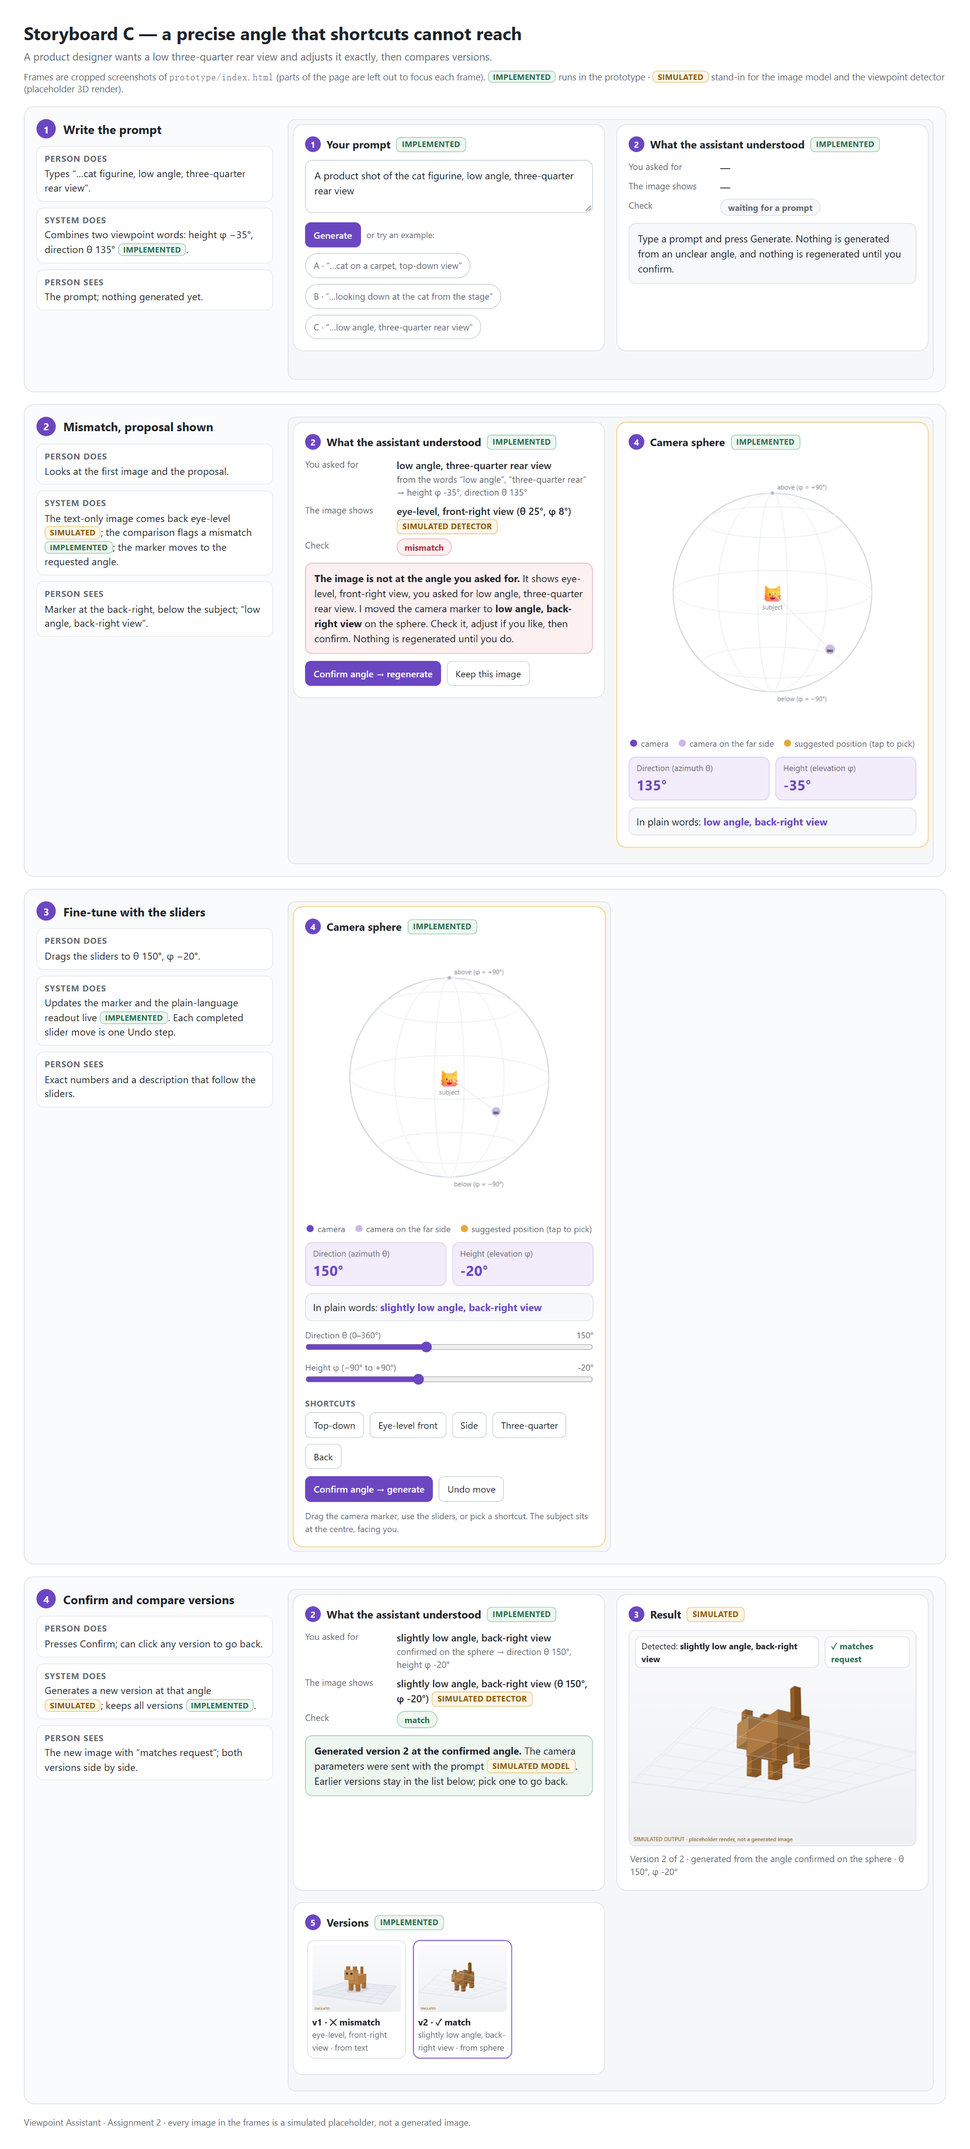
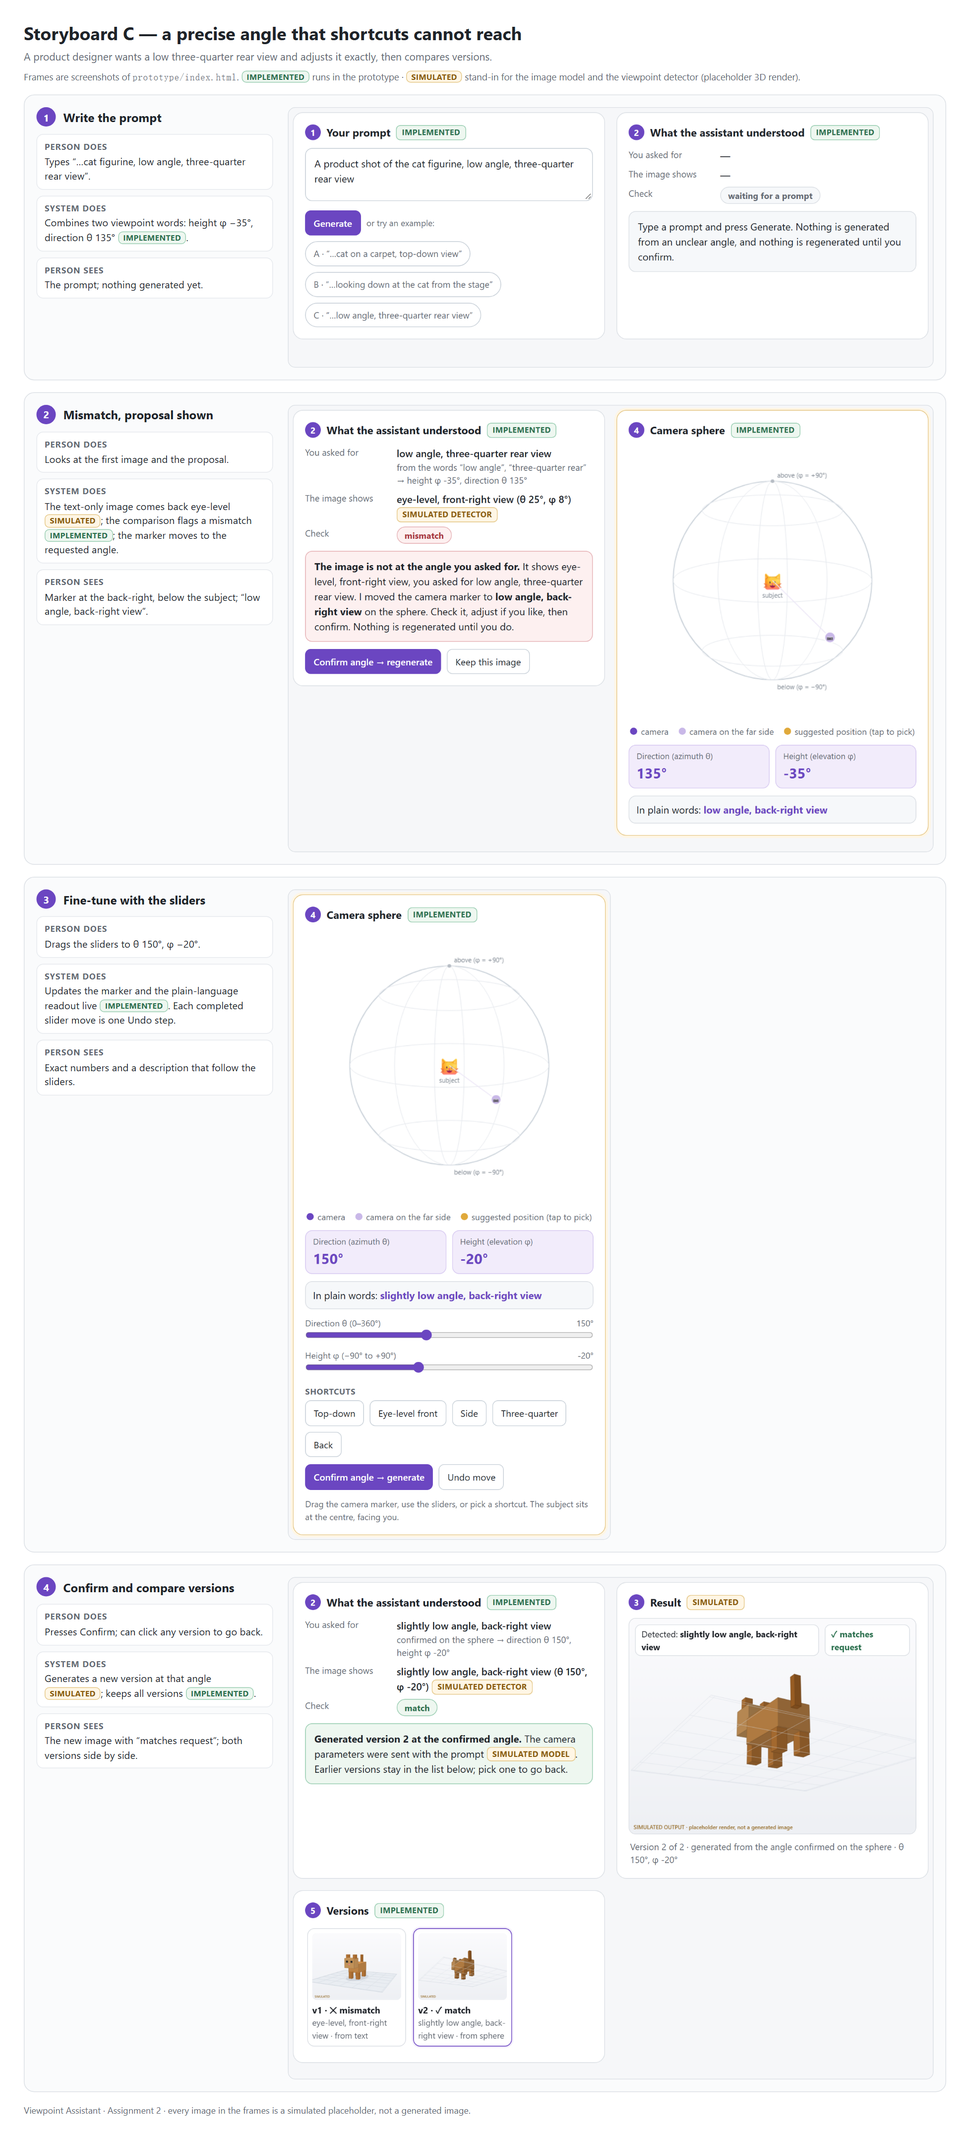
Storyboard caption: say "screenshots"
The cropping is stated in the README development record instead of the
figure caption.

diff --git a/docs/a2/storyboard_A_corrected.html b/docs/a2/storyboard_A_corrected.html
@@ -14,4 +14,4 @@ h1{font-size:24px} .sub{color:#646a73;font-size:14px;margin:6px 0 10px}
 .shot{display:flex;align-items:flex-start}
 .shot img{width:100%;border:1px solid #dde1e6;border-radius:10px;background:#f6f7f9}
 .foot{font-size:12px;color:#646a73;margin-top:4px}
-</style></head><body><h1>Storyboard A — a clear request that comes back at the wrong angle</h1><p class="sub">Person wants a top-down photo of a cat. The assistant checks the angle, flags the mismatch and lets the person confirm the fix.</p><p class="legend">Frames are cropped screenshots of <code>prototype/index.html</code> (parts of the page are left out to focus each frame). <span class="tag impl">implemented</span> runs in the prototype · <span class="tag sim">simulated</span> stand-in for the image model and the viewpoint detector (placeholder 3D render).</p><div class="frame"><div class="txt"><div class="n"><i>1</i>Write the prompt</div><div class="row"><b>Person does</b>Types “…cat on a carpet, top-down view” and presses Generate.</div><div class="row"><b>System does</b>Reads the viewpoint word “top-down” as height φ 90° <span class="tag impl">implemented</span>.</div><div class="row"><b>Person sees</b>The prompt, and a note that nothing has been generated yet.</div></div><div class="shot"><img src="screens/A1_prompt.png" alt="Write the prompt"></div></div><div class="frame"><div class="txt"><div class="n"><i>2</i>The wrong angle is flagged</div><div class="row"><b>Person does</b>Looks at the first image.</div><div class="row"><b>System does</b>Generates from the text alone <span class="tag sim">simulated</span>, detects the angle <span class="tag sim">simulated</span>, compares it with the request <span class="tag impl">implemented</span>: mismatch.</div><div class="row"><b>Person sees</b>“Detected: eye-level, front-right view”, “not the angle asked for”, and why.</div></div><div class="shot"><img src="screens/A2_mismatch.png" alt="The wrong angle is flagged"></div></div><div class="frame"><div class="txt"><div class="n"><i>3</i>Fix proposed, nothing changed yet</div><div class="row"><b>Person does</b>Checks the proposed angle; can drag, use the sliders or a shortcut.</div><div class="row"><b>System does</b>Moves the camera marker to top-down on the sphere <span class="tag impl">implemented</span>. Waits. No regeneration without confirmation.</div><div class="row"><b>Person sees</b>Marker at the top and the readout “top-down view”.</div></div><div class="shot"><img src="screens/A3_marker_moved.png" alt="Fix proposed, nothing changed yet"></div></div><div class="frame"><div class="txt"><div class="n"><i>4</i>Confirm, new version</div><div class="row"><b>Person does</b>Presses “Confirm angle → regenerate”.</div><div class="row"><b>System does</b>Sends the confirmed angle to the model <span class="tag sim">simulated</span>, checks again, keeps both versions <span class="tag impl">implemented</span>.</div><div class="row"><b>Person sees</b>Top-down image, “matches request”; the earlier image stays in the version list.</div></div><div class="shot"><img src="screens/A4_regenerated.png" alt="Confirm, new version"></div></div><p class="foot">Viewpoint Assistant · Assignment 2 · every image in the frames is a simulated placeholder, not a generated image.</p></body></html>
+</style></head><body><h1>Storyboard A — a clear request that comes back at the wrong angle</h1><p class="sub">Person wants a top-down photo of a cat. The assistant checks the angle, flags the mismatch and lets the person confirm the fix.</p><p class="legend">Frames are screenshots of <code>prototype/index.html</code>. <span class="tag impl">implemented</span> runs in the prototype · <span class="tag sim">simulated</span> stand-in for the image model and the viewpoint detector (placeholder 3D render).</p><div class="frame"><div class="txt"><div class="n"><i>1</i>Write the prompt</div><div class="row"><b>Person does</b>Types “…cat on a carpet, top-down view” and presses Generate.</div><div class="row"><b>System does</b>Reads the viewpoint word “top-down” as height φ 90° <span class="tag impl">implemented</span>.</div><div class="row"><b>Person sees</b>The prompt, and a note that nothing has been generated yet.</div></div><div class="shot"><img src="screens/A1_prompt.png" alt="Write the prompt"></div></div><div class="frame"><div class="txt"><div class="n"><i>2</i>The wrong angle is flagged</div><div class="row"><b>Person does</b>Looks at the first image.</div><div class="row"><b>System does</b>Generates from the text alone <span class="tag sim">simulated</span>, detects the angle <span class="tag sim">simulated</span>, compares it with the request <span class="tag impl">implemented</span>: mismatch.</div><div class="row"><b>Person sees</b>“Detected: eye-level, front-right view”, “not the angle asked for”, and why.</div></div><div class="shot"><img src="screens/A2_mismatch.png" alt="The wrong angle is flagged"></div></div><div class="frame"><div class="txt"><div class="n"><i>3</i>Fix proposed, nothing changed yet</div><div class="row"><b>Person does</b>Checks the proposed angle; can drag, use the sliders or a shortcut.</div><div class="row"><b>System does</b>Moves the camera marker to top-down on the sphere <span class="tag impl">implemented</span>. Waits. No regeneration without confirmation.</div><div class="row"><b>Person sees</b>Marker at the top and the readout “top-down view”.</div></div><div class="shot"><img src="screens/A3_marker_moved.png" alt="Fix proposed, nothing changed yet"></div></div><div class="frame"><div class="txt"><div class="n"><i>4</i>Confirm, new version</div><div class="row"><b>Person does</b>Presses “Confirm angle → regenerate”.</div><div class="row"><b>System does</b>Sends the confirmed angle to the model <span class="tag sim">simulated</span>, checks again, keeps both versions <span class="tag impl">implemented</span>.</div><div class="row"><b>Person sees</b>Top-down image, “matches request”; the earlier image stays in the version list.</div></div><div class="shot"><img src="screens/A4_regenerated.png" alt="Confirm, new version"></div></div><p class="foot">Viewpoint Assistant · Assignment 2 · every image in the frames is a simulated placeholder, not a generated image.</p></body></html>

diff --git a/docs/a2/storyboard_C_precise.html b/docs/a2/storyboard_C_precise.html
@@ -14,4 +14,4 @@ h1{font-size:24px} .sub{color:#646a73;font-size:14px;margin:6px 0 10px}
 .shot{display:flex;align-items:flex-start}
 .shot img{width:100%;border:1px solid #dde1e6;border-radius:10px;background:#f6f7f9}
 .foot{font-size:12px;color:#646a73;margin-top:4px}
-</style></head><body><h1>Storyboard C — a precise angle that shortcuts cannot reach</h1><p class="sub">A product designer wants a low three-quarter rear view and adjusts it exactly, then compares versions.</p><p class="legend">Frames are cropped screenshots of <code>prototype/index.html</code> (parts of the page are left out to focus each frame). <span class="tag impl">implemented</span> runs in the prototype · <span class="tag sim">simulated</span> stand-in for the image model and the viewpoint detector (placeholder 3D render).</p><div class="frame"><div class="txt"><div class="n"><i>1</i>Write the prompt</div><div class="row"><b>Person does</b>Types “…cat figurine, low angle, three-quarter rear view”.</div><div class="row"><b>System does</b>Combines two viewpoint words: height φ −35°, direction θ 135° <span class="tag impl">implemented</span>.</div><div class="row"><b>Person sees</b>The prompt; nothing generated yet.</div></div><div class="shot"><img src="screens/C1_prompt.png" alt="Write the prompt"></div></div><div class="frame"><div class="txt"><div class="n"><i>2</i>Mismatch, proposal shown</div><div class="row"><b>Person does</b>Looks at the first image and the proposal.</div><div class="row"><b>System does</b>The text-only image comes back eye-level <span class="tag sim">simulated</span>; the comparison flags a mismatch <span class="tag impl">implemented</span>; the marker moves to the requested angle.</div><div class="row"><b>Person sees</b>Marker at the back-right, below the subject; “low angle, back-right view”.</div></div><div class="shot"><img src="screens/C2_proposal.png" alt="Mismatch, proposal shown"></div></div><div class="frame"><div class="txt"><div class="n"><i>3</i>Fine-tune with the sliders</div><div class="row"><b>Person does</b>Drags the sliders to θ 150°, φ −20°.</div><div class="row"><b>System does</b>Updates the marker and the plain-language readout live <span class="tag impl">implemented</span>. Each completed slider move is one Undo step.</div><div class="row"><b>Person sees</b>Exact numbers and a description that follow the sliders.</div></div><div class="shot"><img src="screens/C3_finetuned.png" alt="Fine-tune with the sliders" style='width:50%'></div></div><div class="frame"><div class="txt"><div class="n"><i>4</i>Confirm and compare versions</div><div class="row"><b>Person does</b>Presses Confirm; can click any version to go back.</div><div class="row"><b>System does</b>Generates a new version at that angle <span class="tag sim">simulated</span>; keeps all versions <span class="tag impl">implemented</span>.</div><div class="row"><b>Person sees</b>The new image with “matches request”; both versions side by side.</div></div><div class="shot"><img src="screens/C4_compared.png" alt="Confirm and compare versions"></div></div><p class="foot">Viewpoint Assistant · Assignment 2 · every image in the frames is a simulated placeholder, not a generated image.</p></body></html>
+</style></head><body><h1>Storyboard C — a precise angle that shortcuts cannot reach</h1><p class="sub">A product designer wants a low three-quarter rear view and adjusts it exactly, then compares versions.</p><p class="legend">Frames are screenshots of <code>prototype/index.html</code>. <span class="tag impl">implemented</span> runs in the prototype · <span class="tag sim">simulated</span> stand-in for the image model and the viewpoint detector (placeholder 3D render).</p><div class="frame"><div class="txt"><div class="n"><i>1</i>Write the prompt</div><div class="row"><b>Person does</b>Types “…cat figurine, low angle, three-quarter rear view”.</div><div class="row"><b>System does</b>Combines two viewpoint words: height φ −35°, direction θ 135° <span class="tag impl">implemented</span>.</div><div class="row"><b>Person sees</b>The prompt; nothing generated yet.</div></div><div class="shot"><img src="screens/C1_prompt.png" alt="Write the prompt"></div></div><div class="frame"><div class="txt"><div class="n"><i>2</i>Mismatch, proposal shown</div><div class="row"><b>Person does</b>Looks at the first image and the proposal.</div><div class="row"><b>System does</b>The text-only image comes back eye-level <span class="tag sim">simulated</span>; the comparison flags a mismatch <span class="tag impl">implemented</span>; the marker moves to the requested angle.</div><div class="row"><b>Person sees</b>Marker at the back-right, below the subject; “low angle, back-right view”.</div></div><div class="shot"><img src="screens/C2_proposal.png" alt="Mismatch, proposal shown"></div></div><div class="frame"><div class="txt"><div class="n"><i>3</i>Fine-tune with the sliders</div><div class="row"><b>Person does</b>Drags the sliders to θ 150°, φ −20°.</div><div class="row"><b>System does</b>Updates the marker and the plain-language readout live <span class="tag impl">implemented</span>. Each completed slider move is one Undo step.</div><div class="row"><b>Person sees</b>Exact numbers and a description that follow the sliders.</div></div><div class="shot"><img src="screens/C3_finetuned.png" alt="Fine-tune with the sliders" style='width:50%'></div></div><div class="frame"><div class="txt"><div class="n"><i>4</i>Confirm and compare versions</div><div class="row"><b>Person does</b>Presses Confirm; can click any version to go back.</div><div class="row"><b>System does</b>Generates a new version at that angle <span class="tag sim">simulated</span>; keeps all versions <span class="tag impl">implemented</span>.</div><div class="row"><b>Person sees</b>The new image with “matches request”; both versions side by side.</div></div><div class="shot"><img src="screens/C4_compared.png" alt="Confirm and compare versions"></div></div><p class="foot">Viewpoint Assistant · Assignment 2 · every image in the frames is a simulated placeholder, not a generated image.</p></body></html>

diff --git a/docs/a2/storyboard_B_asked.html b/docs/a2/storyboard_B_asked.html
@@ -14,4 +14,4 @@ h1{font-size:24px} .sub{color:#646a73;font-size:14px;margin:6px 0 10px}
 .shot{display:flex;align-items:flex-start}
 .shot img{width:100%;border:1px solid #dde1e6;border-radius:10px;background:#f6f7f9}
 .foot{font-size:12px;color:#646a73;margin-top:4px}
-</style></head><body><h1>Storyboard B — a metaphor: ask instead of guessing</h1><p class="sub">Person describes the angle as a scene (“looking down from the stage”). The assistant does not turn it into a literal angle.</p><p class="legend">Frames are cropped screenshots of <code>prototype/index.html</code> (parts of the page are left out to focus each frame). <span class="tag impl">implemented</span> runs in the prototype · <span class="tag sim">simulated</span> stand-in for the image model and the viewpoint detector (placeholder 3D render).</p><div class="frame"><div class="txt"><div class="n"><i>1</i>Write the prompt</div><div class="row"><b>Person does</b>Types “Make it look like you’re looking down at the cat from the stage”.</div><div class="row"><b>System does</b>Looks for viewpoint words <span class="tag impl">implemented</span>.</div><div class="row"><b>Person sees</b>The prompt; nothing generated yet.</div></div><div class="shot"><img src="screens/B1_prompt.png" alt="Write the prompt"></div></div><div class="frame"><div class="txt"><div class="n"><i>2</i>The assistant asks</div><div class="row"><b>Person does</b>Reads the message.</div><div class="row"><b>System does</b>Finds “looking down” but no exact angle: unclear <span class="tag impl">implemented</span>. Generates nothing. Shows 3 suggested positions on the sphere.</div><div class="row"><b>Person sees</b>“I have not generated anything”, “nothing yet”, and three amber suggestions.</div></div><div class="shot"><img src="screens/B2_ambiguous.png" alt="The assistant asks"></div></div><div class="frame"><div class="txt"><div class="n"><i>3</i>Point at the angle</div><div class="row"><b>Person does</b>Taps suggestion 1 (or drags the marker).</div><div class="row"><b>System does</b>Moves the camera to that position and shows it in numbers and plain words <span class="tag impl">implemented</span>.</div><div class="row"><b>Person sees</b>θ 0°, φ 55°, “high angle, front view”.</div></div><div class="shot"><img src="screens/B3_picked.png" alt="Point at the angle"></div></div><div class="frame"><div class="txt"><div class="n"><i>4</i>Confirm, image generated</div><div class="row"><b>Person does</b>Presses “Confirm angle → generate”.</div><div class="row"><b>System does</b>Sends the confirmed angle to the model <span class="tag sim">simulated</span>; keeps the version <span class="tag impl">implemented</span>.</div><div class="row"><b>Person sees</b>An image at that angle, “matches request”, listed as version 1.</div></div><div class="shot"><img src="screens/B4_generated.png" alt="Confirm, image generated"></div></div><p class="foot">Viewpoint Assistant · Assignment 2 · every image in the frames is a simulated placeholder, not a generated image.</p></body></html>
+</style></head><body><h1>Storyboard B — a metaphor: ask instead of guessing</h1><p class="sub">Person describes the angle as a scene (“looking down from the stage”). The assistant does not turn it into a literal angle.</p><p class="legend">Frames are screenshots of <code>prototype/index.html</code>. <span class="tag impl">implemented</span> runs in the prototype · <span class="tag sim">simulated</span> stand-in for the image model and the viewpoint detector (placeholder 3D render).</p><div class="frame"><div class="txt"><div class="n"><i>1</i>Write the prompt</div><div class="row"><b>Person does</b>Types “Make it look like you’re looking down at the cat from the stage”.</div><div class="row"><b>System does</b>Looks for viewpoint words <span class="tag impl">implemented</span>.</div><div class="row"><b>Person sees</b>The prompt; nothing generated yet.</div></div><div class="shot"><img src="screens/B1_prompt.png" alt="Write the prompt"></div></div><div class="frame"><div class="txt"><div class="n"><i>2</i>The assistant asks</div><div class="row"><b>Person does</b>Reads the message.</div><div class="row"><b>System does</b>Finds “looking down” but no exact angle: unclear <span class="tag impl">implemented</span>. Generates nothing. Shows 3 suggested positions on the sphere.</div><div class="row"><b>Person sees</b>“I have not generated anything”, “nothing yet”, and three amber suggestions.</div></div><div class="shot"><img src="screens/B2_ambiguous.png" alt="The assistant asks"></div></div><div class="frame"><div class="txt"><div class="n"><i>3</i>Point at the angle</div><div class="row"><b>Person does</b>Taps suggestion 1 (or drags the marker).</div><div class="row"><b>System does</b>Moves the camera to that position and shows it in numbers and plain words <span class="tag impl">implemented</span>.</div><div class="row"><b>Person sees</b>θ 0°, φ 55°, “high angle, front view”.</div></div><div class="shot"><img src="screens/B3_picked.png" alt="Point at the angle"></div></div><div class="frame"><div class="txt"><div class="n"><i>4</i>Confirm, image generated</div><div class="row"><b>Person does</b>Presses “Confirm angle → generate”.</div><div class="row"><b>System does</b>Sends the confirmed angle to the model <span class="tag sim">simulated</span>; keeps the version <span class="tag impl">implemented</span>.</div><div class="row"><b>Person sees</b>An image at that angle, “matches request”, listed as version 1.</div></div><div class="shot"><img src="screens/B4_generated.png" alt="Confirm, image generated"></div></div><p class="foot">Viewpoint Assistant · Assignment 2 · every image in the frames is a simulated placeholder, not a generated image.</p></body></html>

diff --git a/README.md b/README.md
@@ -61,7 +61,7 @@ Work before 13 November 2026 was done outside Git and was imported in the first 
   - *Prompt reading and comparison made real* ([98f81b9](https://github.com/ShiSongLin6/viewpoint-assistant/commit/98f81b9)). In Lab 3 these steps were mocked. Rules were chosen over a language model so the behaviour is transparent, testable and runs without an API key. Unclear or conflicting phrases return suggestions, never an angle. Checked with unit tests (17 at the latest commit), including Lab 3 Tests A and B and a whole-word check ("triangle" is not "angle").
   - *Full interaction loop* ([05ebff9](https://github.com/ShiSongLin6/viewpoint-assistant/commit/05ebff9)). The sphere was embedded in a prompt → interpretation → result → correction loop with a version history. Generation and detection stay simulated so that interface behaviour can be examined separately from model accuracy. Suggestions were spread apart and kept visible while dragging, after the first layout made them overlap. Checked by walking examples A–C, the no-angle case, Undo and version switching in a browser.
   - *Storyboards and architecture diagram redrawn for this version.* The Lab 2 storyboards showed preset buttons and the Lab 3 path diagram still marked prompt reading and comparison as mocked; both were out of date. The three new storyboards use real screenshots of the prototype (A: wrong angle corrected, B: metaphor, C: precise angle), and every component in the diagram is marked implemented, simulated or planned to match the code.
-  - *Self-review against the A2 rubric (16 Nov).* Claude was asked to audit its own work. Problems found and fixed: a vague cue next to a clear word ("looking up from the ground, side view") was silently dropped and now asks; whole-word matching missed "45 degrees" and "top view"; the storyboard pages called cropped screenshots "real" (now labelled cropped, and the sphere frames that show a person's action now include the control used); the architecture diagram said "unclear → suggestions" although a prompt with no angle has none. Found and left as a documented limit: the word-matching false positive above. Not yet covered by tests: the interface code (`app.js`), checked only by hand in a browser.
+  - *Self-review against the A2 rubric (16 Nov).* Claude was asked to audit its own work. Problems found and fixed: a vague cue next to a clear word ("looking up from the ground, side view") was silently dropped and now asks; whole-word matching missed "45 degrees" and "top view"; the storyboard frames are cropped to the relevant cards, and the sphere frames that show a person's action now include the control used (the figure caption just says "screenshots"; the cropping is stated here); the architecture diagram said "unclear → suggestions" although a prompt with no angle has none. Found and left as a documented limit: the word-matching false positive above. Not yet covered by tests: the interface code (`app.js`), checked only by hand in a browser.
   - TODO: my own review and changes.
 
 ## AI assistance
